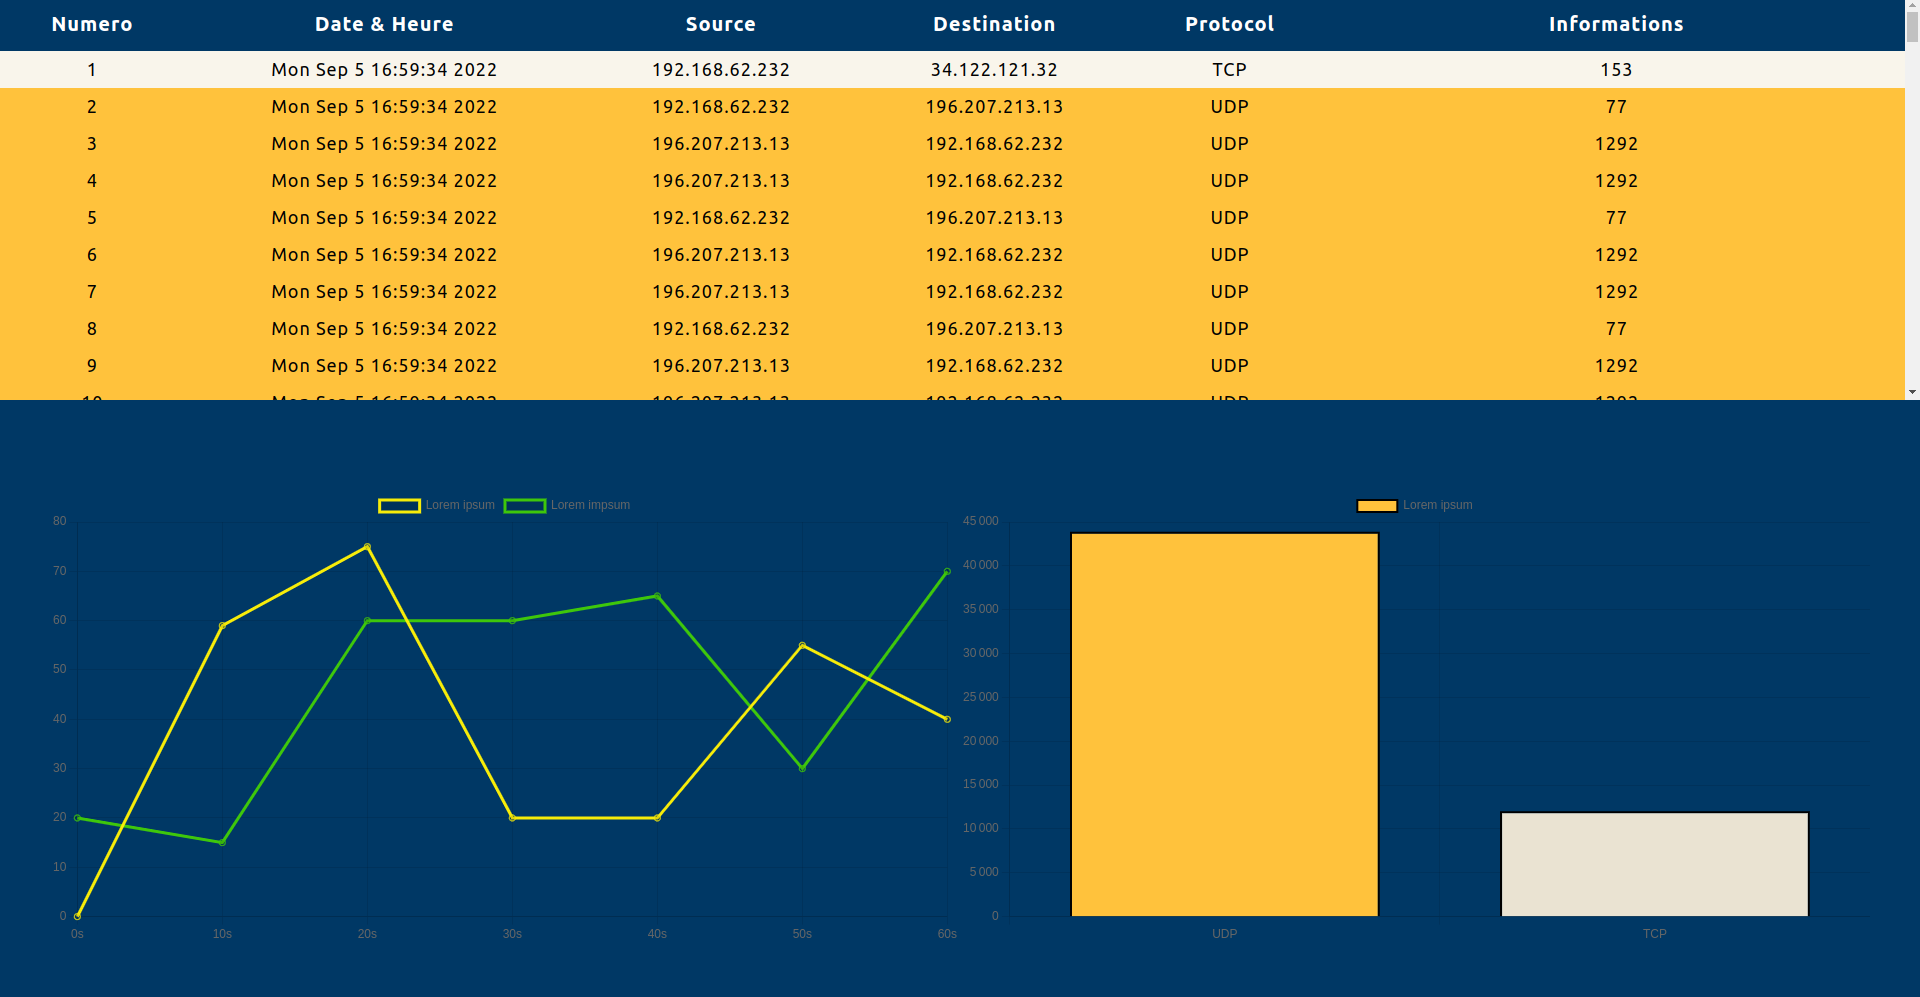
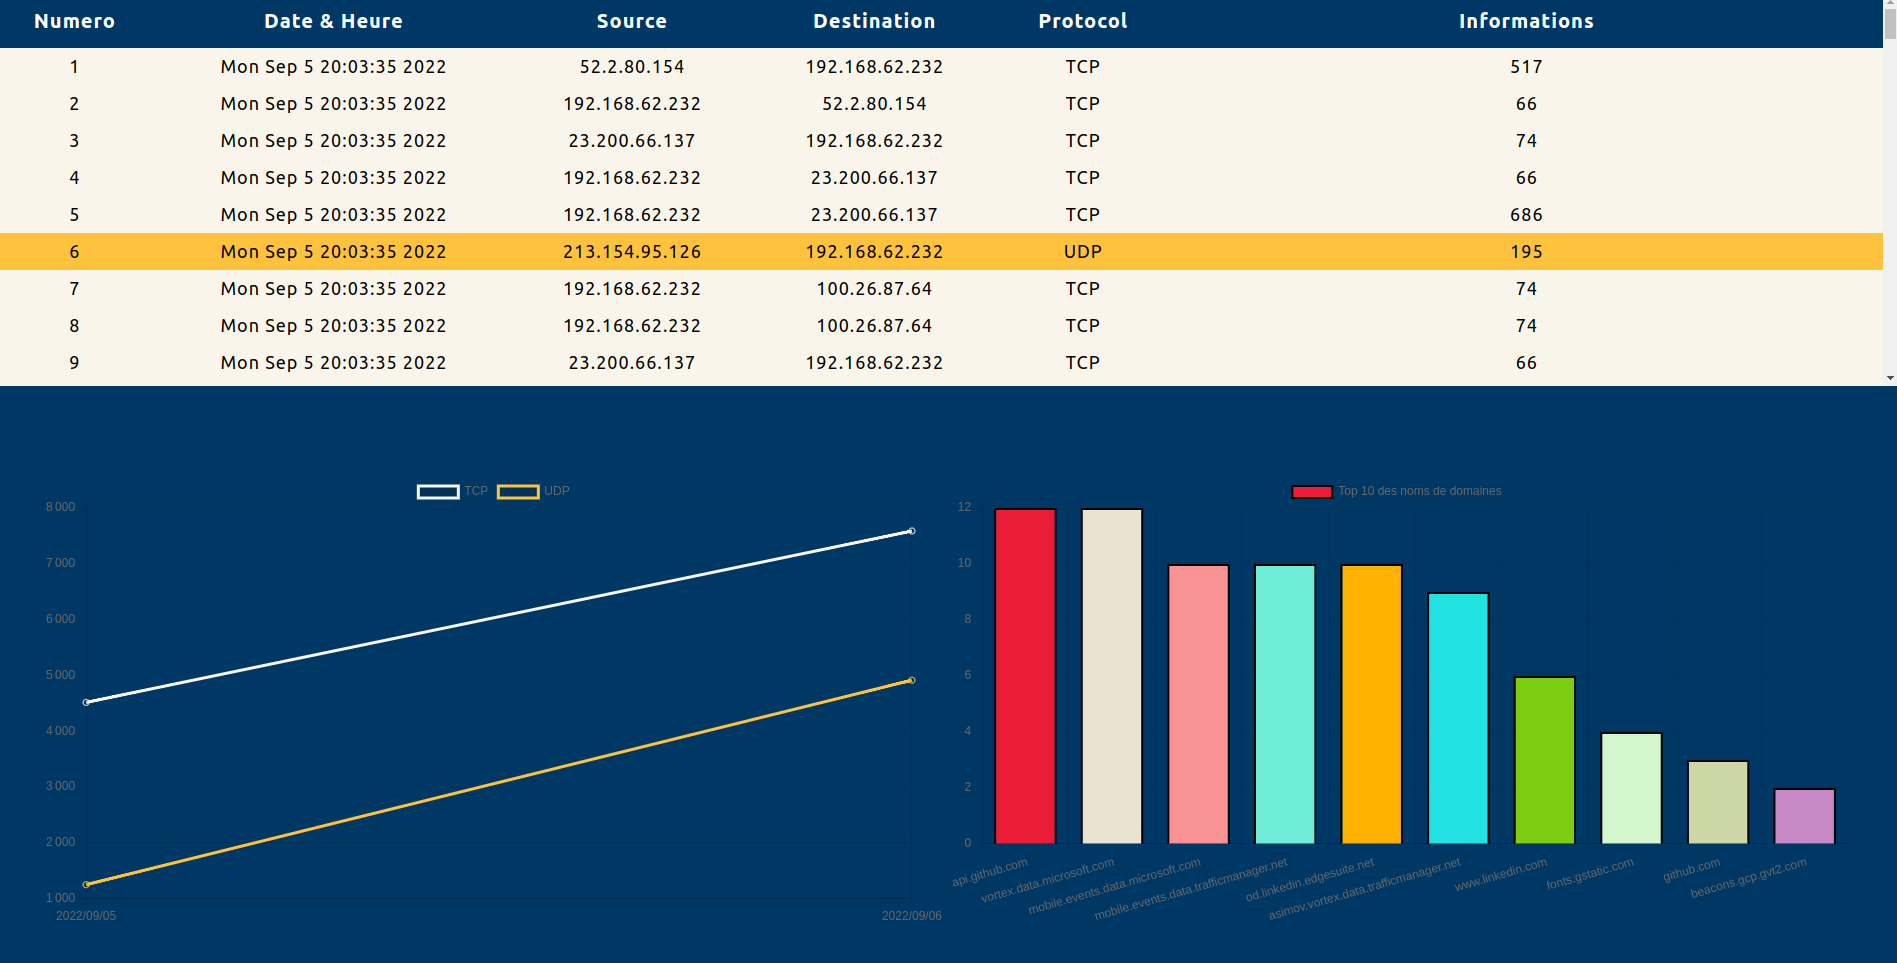
Updated Project Frontend

diff --git a/frontend/src/components/BarChart.js b/frontend/src/components/BarChart.js
@@ -11,7 +11,7 @@ const BarChart = ({data}) => {
       label : "Top 10 des noms de domaines",
       data : dnsData.map( element => element.doc_count),
       // backgroundColor : ["#F5EDDC"],
-      backgroundColor : ["#EB1D36", "#EAE3D2", "#FA9494", "#6FEDD6", "#FFB200", "#21E1E1", "#7DCE13", "#D4F6CC"],
+      backgroundColor : ["#EB1D36", "#EAE3D2", "#FA9494", "#6FEDD6", "#FFB200", "#21E1E1", "#7DCE13", "#D4F6CC", "#CCD6A6", "#C689C6"],
       borderColor : "black",
       borderWidth : 2,
     }]

diff --git a/frontend/src/App.css b/frontend/src/App.css
@@ -8,7 +8,7 @@
 /* ********************************************** */
 .divTableStream{
   /* background: red; */
-  margin-bottom: 40px;
+  margin-bottom: 30px;
 }
 
 .divTableStream table{
